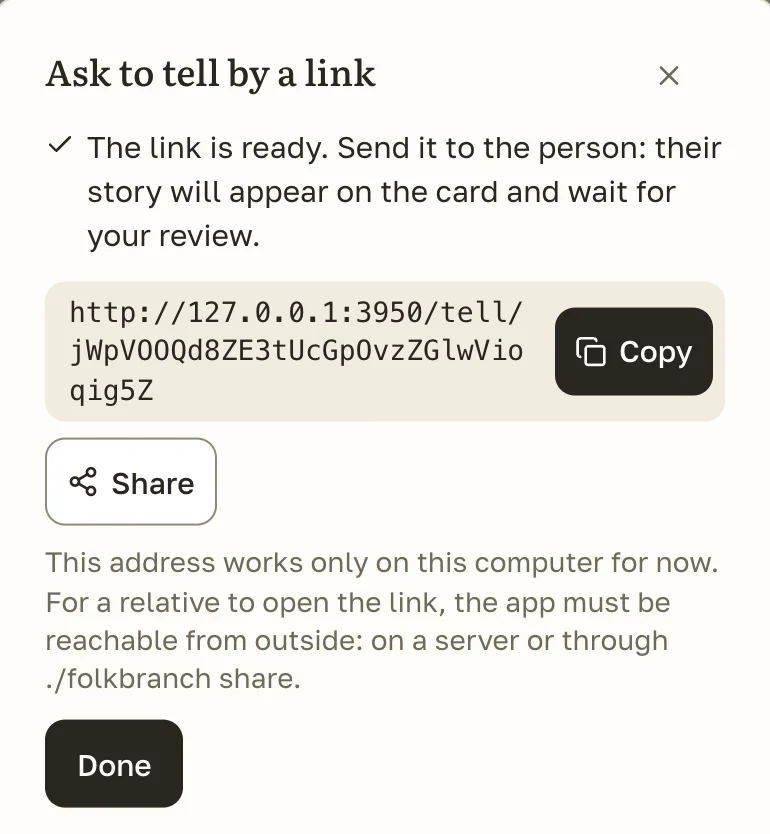
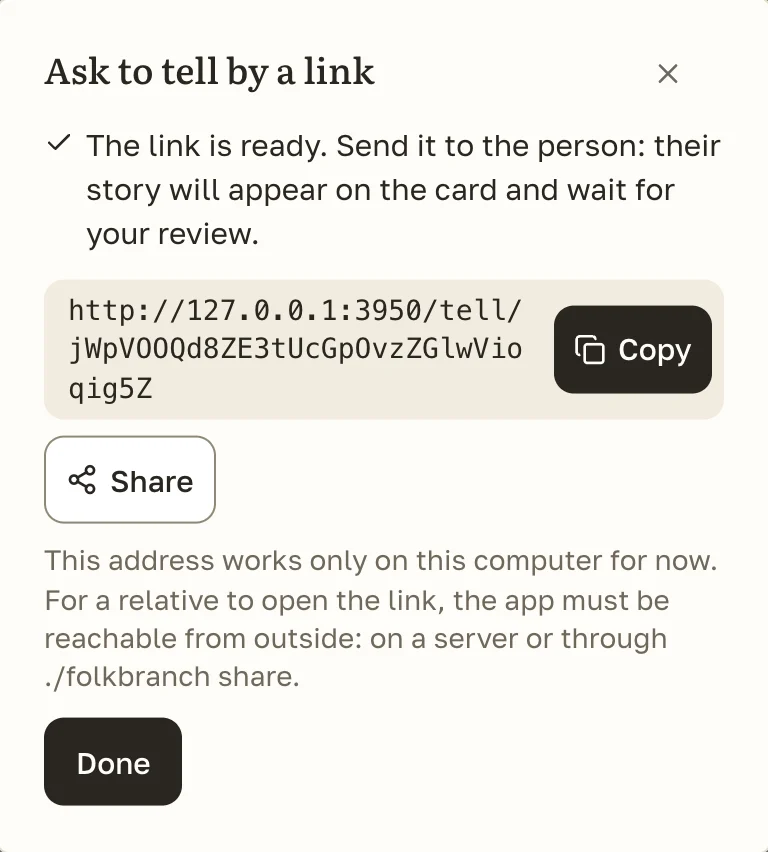
landing: shaved step pictures, taller Russian dialog kept whole; README note on the screenshot mode

diff --git a/landing/site/ru/index.html b/landing/site/ru/index.html
@@ -111,7 +111,7 @@ html:not(.js) .tabs{display:none}
 .step h3{margin-top:2px}
 .step p{color:var(--soft);font-size:17px}
 .step .frame{align-self:flex-start}
-.step .frame{width:100%;max-width:343px}
+.step .frame{width:100%;max-width:310px}
 .step .frame img{width:100%}
 /* facts */
 .facts{display:grid;gap:0;margin:24px 0 0;padding:0}
@@ -159,7 +159,8 @@ footer nav{display:flex;flex-wrap:wrap;align-items:center;gap:0 6px}
  .tabs{grid-template-columns:repeat(4,auto);justify-content:start}
  .tabs button{padding:0 22px}
  .cta{grid-template-columns:auto auto;max-width:none;justify-content:start}
- .btn{padding:6px 28px;font-size:18px;min-width:210px}
+ .btn{padding:6px 28px;font-size:18px;min-width:210px;white-space:nowrap}
+ html[lang=ru] h1{font-size:50px}
  .well{flex-direction:row;align-items:center;justify-content:space-between;padding:16px 18px}
  .well code{font-size:16px}
  .copy{flex:none}
@@ -175,6 +176,7 @@ footer nav{display:flex;flex-wrap:wrap;align-items:center;gap:0 6px}
  .cmp thead th:nth-child(2){padding-left:14px;background:rgba(154,71,39,.07)}
  .facts{grid-template-columns:1fr 1fr;gap:0 48px}
  .steps{grid-template-columns:1fr 1fr;gap:44px 48px}
+ .step .frame{max-width:343px}
 }
 @media (min-width:980px){
  .hero .wrap{display:grid;grid-template-columns:minmax(0,4fr) minmax(0,6fr);gap:48px;align-items:center}
@@ -195,7 +197,7 @@ footer nav{display:flex;flex-wrap:wrap;align-items:center;gap:0 6px}
 <main id="main">
 <section class="hero"><div class="wrap">
 <div>
-<h1>Семейное древо, фото и голосовые рассказы родных на вашем сервере</h1>
+<h1>Семейное древо, фото и голосовые рассказы на вашем сервере</h1>
 <p class="sub">Отправьте родственнику ссылку. Он запишет рассказ с телефона, без регистрации. Вы проверите запись, и она появится на странице этого человека.</p>
 <div class="cta"><a class="btn primary" href="https://demo.folkbranch.com/">Попробовать демо</a><a class="btn" href="#install">Установить</a></div>
 <p class="note">Бесплатно, открытый код (AGPL-3.0). Работает на вашем компьютере или сервере.</p>
@@ -224,10 +226,10 @@ footer nav{display:flex;flex-wrap:wrap;align-items:center;gap:0 6px}
 <h2 id="how-h">Как это работает</h2>
 <p class="kicker">Четыре шага: от вопроса до рассказа на странице человека.</p>
 <ol class="steps">
-<li class="step"><span class="num" aria-hidden="true">1</span><h3>Отправляете вопрос по ссылке</h3><p>Откройте человека, выберите до пяти вопросов или напишите свои и скопируйте ссылку. Отправьте её в любом мессенджере.</p><div class="frame"><img src="/assets/step-ask-ru.webp" alt="Окно, в котором создаётся ссылка, с кнопкой копирования" width="770" height="834" loading="lazy" decoding="async"></div></li>
-<li class="step"><span class="num" aria-hidden="true">2</span><h3>Родственник записывает рассказ на телефоне</h3><p>Он открывает ссылку, выбирает вопрос и нажимает одну большую кнопку. Ни приложения, ни аккаунта.</p><div class="frame"><img src="/assets/step-voice-ru.webp" alt="Телефон родственника: вопрос и кнопка «Начать запись»" width="780" height="880" loading="lazy" decoding="async"></div></li>
-<li class="step"><span class="num" aria-hidden="true">3</span><h3>Вы проверяете запись</h3><p>Запись ждёт в разделе «Проверка». Послушайте и примите её или отклоните.</p><div class="frame"><img src="/assets/step-review-ru.webp" alt="Панель проверки с записью, которую можно принять или отклонить" width="780" height="660" loading="lazy" decoding="async"></div></li>
-<li class="step"><span class="num" aria-hidden="true">4</span><h3>Рассказ попадает на страницу человека</h3><p>Принятый рассказ лежит на вкладке «Рассказы» этого человека, рядом с биографией, фотографиями и местом в древе.</p><div class="frame"><img src="/assets/step-page-ru.webp" alt="Вкладка «Рассказы» человека с принятой записью" width="780" height="910" loading="lazy" decoding="async"></div></li>
+<li class="step"><span class="num" aria-hidden="true">1</span><h3>Отправляете вопрос по ссылке</h3><p>Откройте человека, выберите до пяти вопросов или напишите свои и скопируйте ссылку. Отправьте её в любом мессенджере.</p><div class="frame"><img src="/assets/step-ask-ru.webp" alt="Окно, в котором создаётся ссылка, с кнопкой копирования" width="768" height="888" decoding="async"></div></li>
+<li class="step"><span class="num" aria-hidden="true">2</span><h3>Родственник записывает рассказ на телефоне</h3><p>Он открывает ссылку, выбирает вопрос и нажимает одну большую кнопку. Ни приложения, ни аккаунта.</p><div class="frame"><img src="/assets/step-voice-ru.webp" alt="Телефон родственника: вопрос и кнопка «Начать запись»" width="780" height="880" decoding="async"></div></li>
+<li class="step"><span class="num" aria-hidden="true">3</span><h3>Вы проверяете запись</h3><p>Запись ждёт в разделе «Проверка». Послушайте и примите её или отклоните.</p><div class="frame"><img src="/assets/step-review-ru.webp" alt="Панель проверки с записью, которую можно принять или отклонить" width="780" height="660" decoding="async"></div></li>
+<li class="step"><span class="num" aria-hidden="true">4</span><h3>Рассказ попадает на страницу человека</h3><p>Принятый рассказ лежит на вкладке «Рассказы» этого человека, рядом с биографией, фотографиями и местом в древе.</p><div class="frame"><img src="/assets/step-page-ru.webp" alt="Вкладка «Рассказы» человека с принятой записью" width="780" height="910" decoding="async"></div></li>
 </ol>
 </div></section>
 

diff --git a/landing/site/index.html b/landing/site/index.html
@@ -111,7 +111,7 @@ html:not(.js) .tabs{display:none}
 .step h3{margin-top:2px}
 .step p{color:var(--soft);font-size:17px}
 .step .frame{align-self:flex-start}
-.step .frame{width:100%;max-width:343px}
+.step .frame{width:100%;max-width:310px}
 .step .frame img{width:100%}
 /* facts */
 .facts{display:grid;gap:0;margin:24px 0 0;padding:0}
@@ -159,7 +159,8 @@ footer nav{display:flex;flex-wrap:wrap;align-items:center;gap:0 6px}
  .tabs{grid-template-columns:repeat(4,auto);justify-content:start}
  .tabs button{padding:0 22px}
  .cta{grid-template-columns:auto auto;max-width:none;justify-content:start}
- .btn{padding:6px 28px;font-size:18px;min-width:210px}
+ .btn{padding:6px 28px;font-size:18px;min-width:210px;white-space:nowrap}
+ html[lang=ru] h1{font-size:50px}
  .well{flex-direction:row;align-items:center;justify-content:space-between;padding:16px 18px}
  .well code{font-size:16px}
  .copy{flex:none}
@@ -175,6 +176,7 @@ footer nav{display:flex;flex-wrap:wrap;align-items:center;gap:0 6px}
  .cmp thead th:nth-child(2){padding-left:14px;background:rgba(154,71,39,.07)}
  .facts{grid-template-columns:1fr 1fr;gap:0 48px}
  .steps{grid-template-columns:1fr 1fr;gap:44px 48px}
+ .step .frame{max-width:343px}
 }
 @media (min-width:980px){
  .hero .wrap{display:grid;grid-template-columns:minmax(0,4fr) minmax(0,6fr);gap:48px;align-items:center}
@@ -224,10 +226,10 @@ footer nav{display:flex;flex-wrap:wrap;align-items:center;gap:0 6px}
 <h2 id="how-h">How it works</h2>
 <p class="kicker">Four steps, from a question to a story on the person’s page.</p>
 <ol class="steps">
-<li class="step"><span class="num" aria-hidden="true">1</span><h3>Send a question by link</h3><p>Open a person, pick up to five questions or write your own, and copy the link. Send it in any messenger.</p><div class="frame"><img src="/assets/step-ask-en.webp" alt="The dialog that makes the link, with a copy button" width="770" height="834" loading="lazy" decoding="async"></div></li>
-<li class="step"><span class="num" aria-hidden="true">2</span><h3>The relative records on their phone</h3><p>They tap the link, pick a question and press one big button. No app and no account.</p><div class="frame"><img src="/assets/step-voice-en.webp" alt="A relative’s phone: a question and a Start recording button" width="780" height="880" loading="lazy" decoding="async"></div></li>
-<li class="step"><span class="num" aria-hidden="true">3</span><h3>You check it</h3><p>The recording waits in Review. Listen to it, then accept or reject it.</p><div class="frame"><img src="/assets/step-review-en.webp" alt="The Review panel with a recording to accept or reject" width="780" height="660" loading="lazy" decoding="async"></div></li>
-<li class="step"><span class="num" aria-hidden="true">4</span><h3>It lands on the person’s page</h3><p>An accepted story sits on that person’s Stories tab, with their biography and photos and their place in the tree.</p><div class="frame"><img src="/assets/step-page-en.webp" alt="A person’s Stories tab with an accepted recording" width="780" height="910" loading="lazy" decoding="async"></div></li>
+<li class="step"><span class="num" aria-hidden="true">1</span><h3>Send a question by link</h3><p>Open a person, pick up to five questions or write your own, and copy the link. Send it in any messenger.</p><div class="frame"><img src="/assets/step-ask-en.webp" alt="The dialog that makes the link, with a copy button" width="768" height="852" decoding="async"></div></li>
+<li class="step"><span class="num" aria-hidden="true">2</span><h3>The relative records on their phone</h3><p>They tap the link, pick a question and press one big button. No app and no account.</p><div class="frame"><img src="/assets/step-voice-en.webp" alt="A relative’s phone: a question and a Start recording button" width="780" height="880" decoding="async"></div></li>
+<li class="step"><span class="num" aria-hidden="true">3</span><h3>You check it</h3><p>The recording waits in Review. Listen to it, then accept or reject it.</p><div class="frame"><img src="/assets/step-review-en.webp" alt="The Review panel with a recording to accept or reject" width="780" height="660" decoding="async"></div></li>
+<li class="step"><span class="num" aria-hidden="true">4</span><h3>It lands on the person’s page</h3><p>An accepted story sits on that person’s Stories tab, with their biography and photos and their place in the tree.</p><div class="frame"><img src="/assets/step-page-en.webp" alt="A person’s Stories tab with an accepted recording" width="780" height="910" decoding="async"></div></li>
 </ol>
 </div></section>
 

diff --git a/landing/README.md b/landing/README.md
@@ -6,3 +6,4 @@ The public site: an English page, a Russian page under `/ru/`, a 404 page, `site
 - `nginx.conf` holds the host redirect (`www` to the bare domain), the cache headers and the 404 page.
 - Check locally: `docker build -t folkbranch-landing landing && docker run --rm -p 8081:8080 folkbranch-landing`.
 - Deploy (public): `railway up --project 5153e471-ba06-4523-a79f-005db5ba52a4 --environment production --service landing --ci` from this folder, then compare the live HTML with `site/`.
+- The pictures in `site/assets/` for the home page (`step-*`, `hero-*`) come from `node scripts/readme-shots.mjs --landing landing/site/assets` after `pnpm build`, on the invented demo family; convert the PNGs to webp (and shave the dialog edges) before committing.
